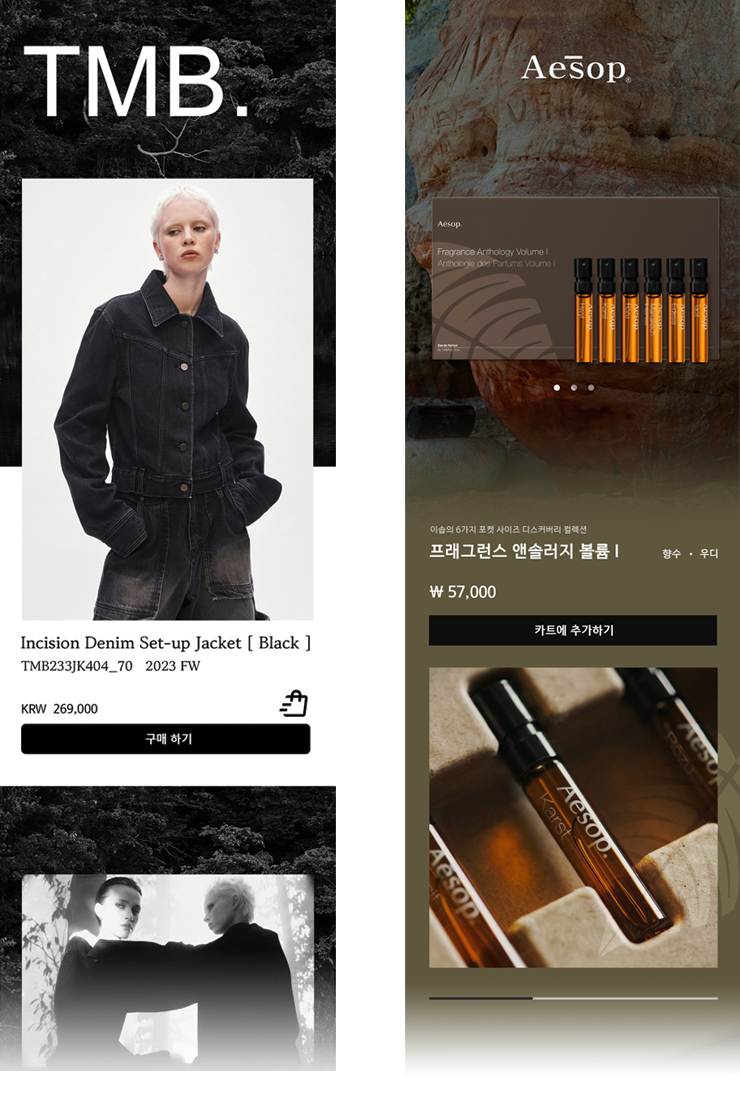
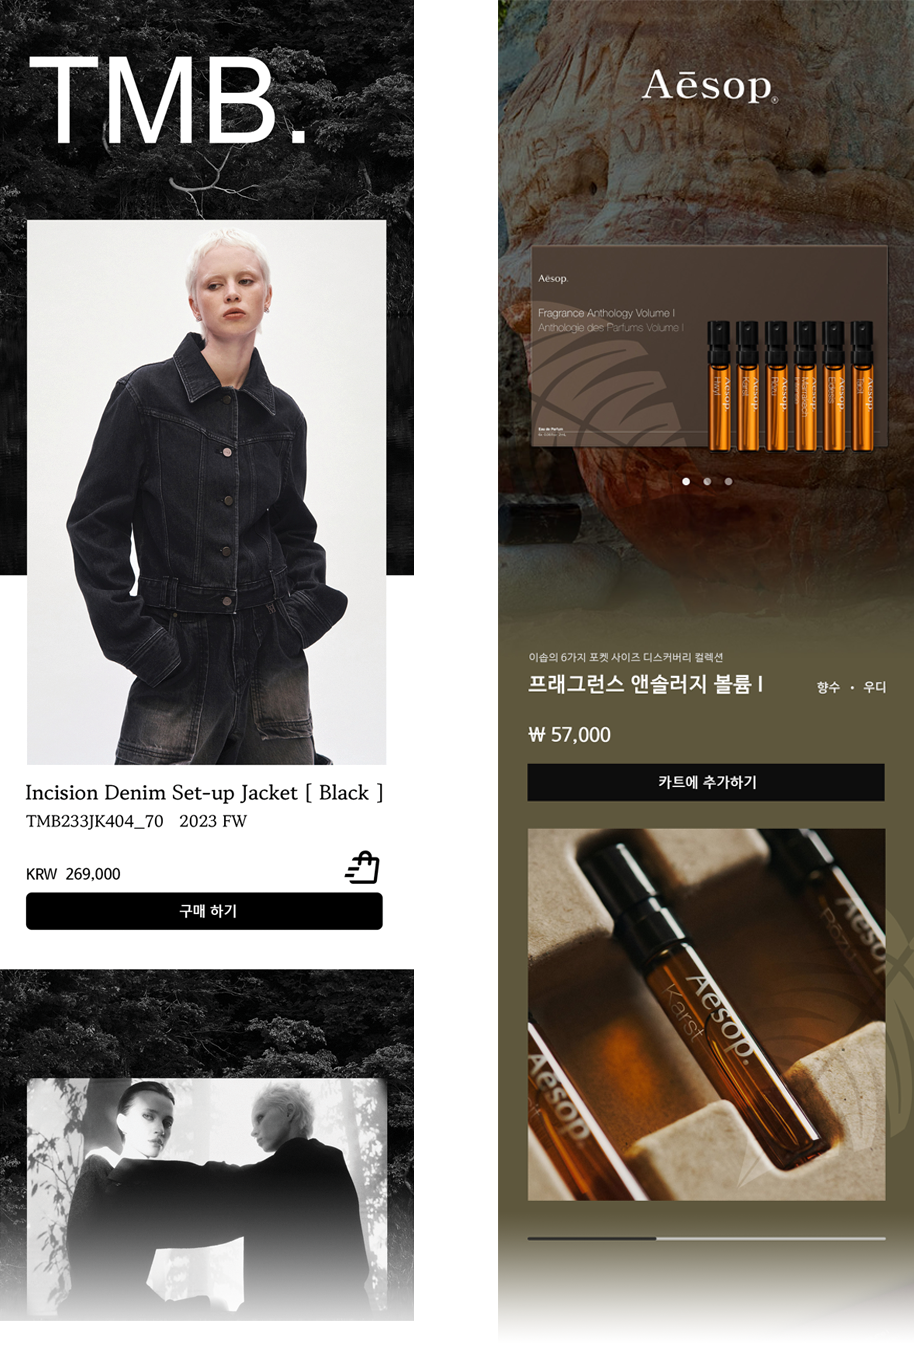
pm 2:08

diff --git a/work/design/banner/banner.html b/work/design/banner/banner.html
@@ -89,11 +89,9 @@
                 </div> <!-- intro-txt -->
 
                 <div class="page-img">
-                    <img src="./images/banner_product.jpg" alt="배너디자인">
-                    <img src="./images/banner_main.jpg" alt="배너디자인">
-                    <img src="./images/banner_promo.jpg" alt="배너디자인">
-                    <!-- <img src="./images/banner_1.jpg" alt="배너디자인"> -->
-                    <!-- <img src="./images/banner_2.jpg" alt="배너디자인"> -->
+                    <img src="./images/banner_product.jpg" alt="배너디자인1">
+                    <img src="./images/banner_main.jpg" alt="배너디자인2">
+                    <img src="./images/banner_promo.jpg" alt="배너디자인3">
                 </div>
             </div>
         </div>

diff --git a/work/design/banner/scss/banner.scss b/work/design/banner/scss/banner.scss
@@ -67,7 +67,14 @@ main {
                     @include responsive(large-screens) {
                         margin-right: 20px;
                     }
+                }
 
+                &:nth-child(2) {
+                    margin-bottom: 50px;
+
+                    @include responsive(large-screens) {
+                        margin-right: 20px;
+                    }
                 }
                 
                 @include responsive(large-screens) {

diff --git a/work/design/banner/css/banner.css b/work/design/banner/css/banner.css
@@ -94,6 +94,14 @@ main .flex-box .page-img img:first-child {
     margin-right: 20px;
   }
 }
+main .flex-box .page-img img:nth-child(2) {
+  margin-bottom: 50px;
+}
+@media (min-width: 1440px) {
+  main .flex-box .page-img img:nth-child(2) {
+    margin-right: 20px;
+  }
+}
 @media (min-width: 1440px) {
   main .flex-box .page-img img {
     width: 100%;

diff --git a/scss/index.scss b/scss/index.scss
@@ -817,7 +817,7 @@ body {
 
                     @include responsive(large-screens) {
                         // width: 421px;
-                        width: 700px;
+                        width: 650px;
                     }
 
                 }

diff --git a/css/index.css b/css/index.css
@@ -777,7 +777,7 @@ main .banner-design .flex-box .page-img img:first-child {
 }
 @media (min-width: 1440px) {
   main .banner-design .flex-box .page-img img {
-    width: 700px;
+    width: 650px;
   }
 }
 main .banner-design .flex-box .intro-txt {
